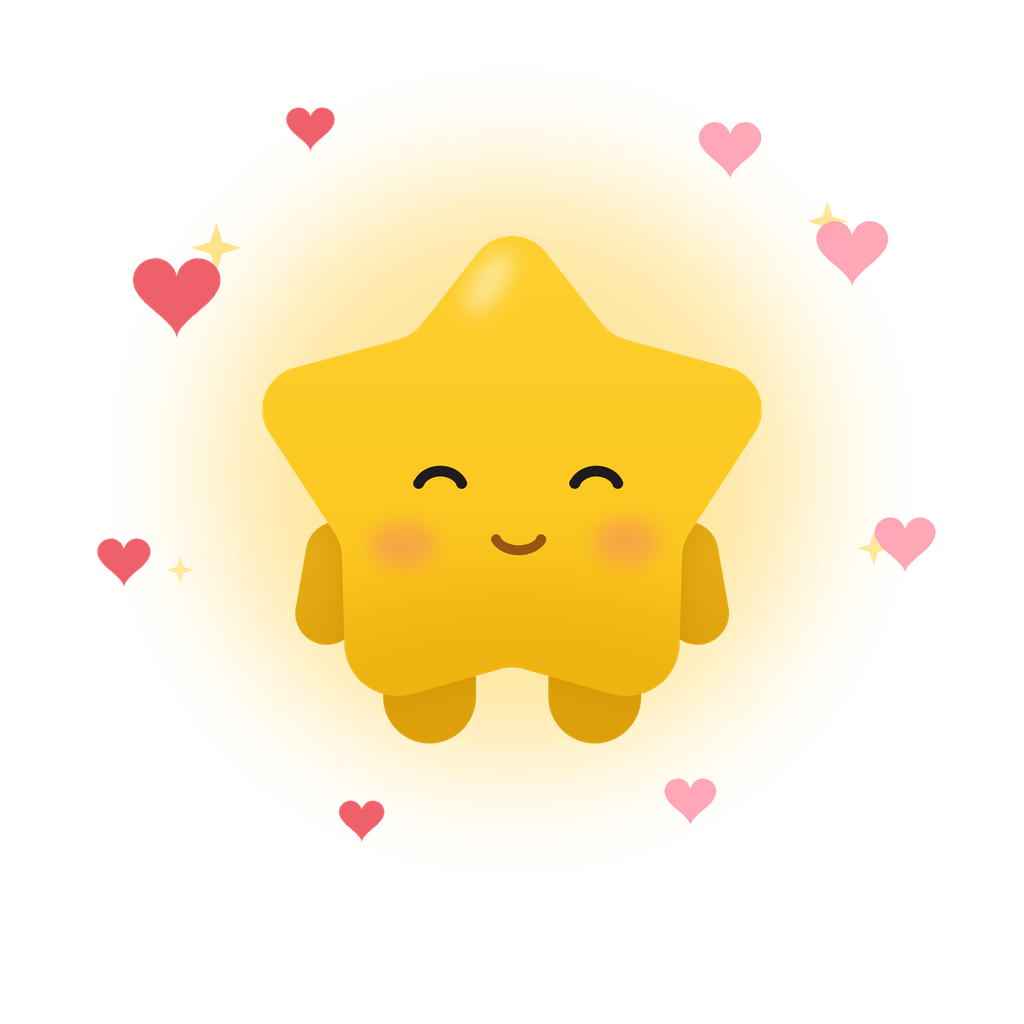
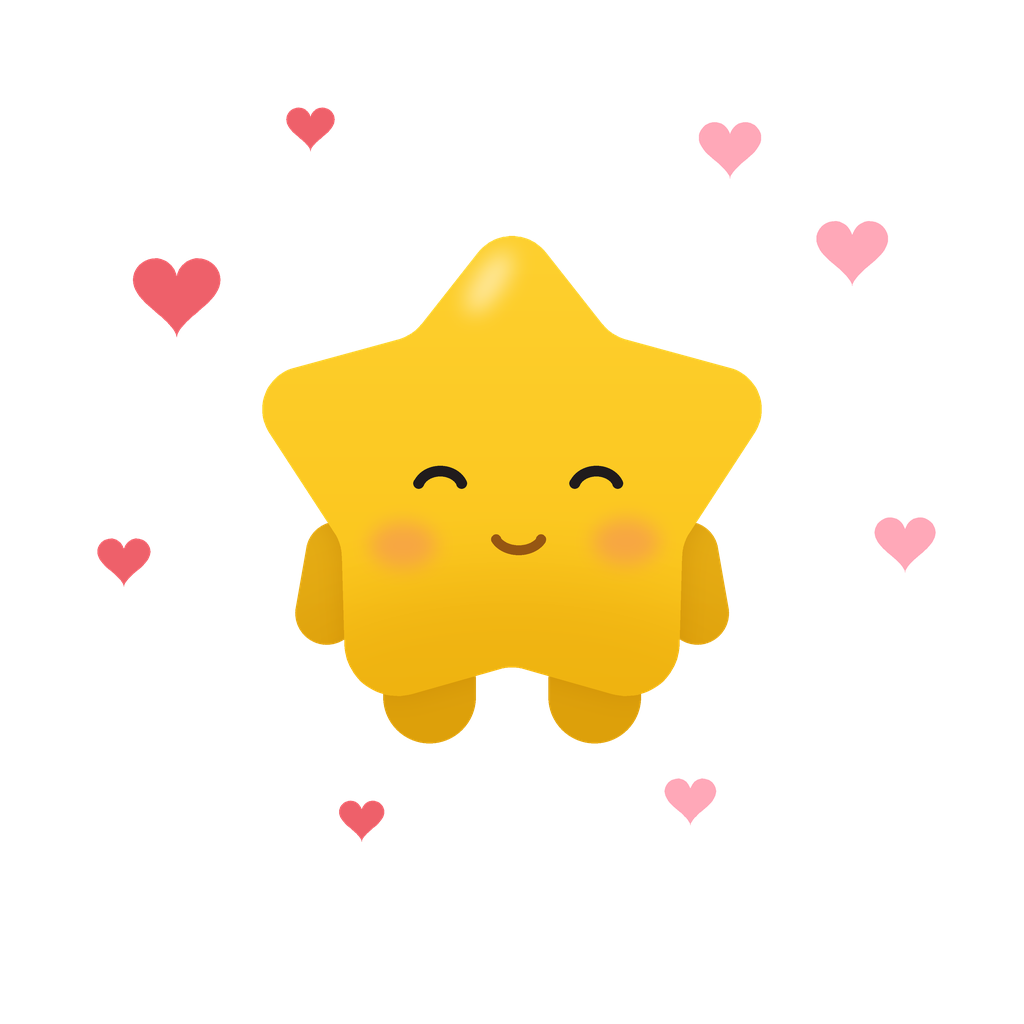
Drop the glow and rebuild the lotus pose
The warm aura around breathing/affirmation/meditation-complete and the
crisis screen is gone — those scenes now carry only stars, hearts or the
mat. The aura and calm_glow helpers are deleted with it.

Lotus: crossed legs are bigger and drawn in a lighter tone, the arms rest
on them in a darker tone, and each casts a soft shadow on what it lies on,
so limbs no longer merge into one yellow mass.

Claude-Session: https://claude.ai/code/session_015M4W5mwAC7ThVprora4HqH

Changed region(s): [[0.1562, 0.125, 0.8438, 0.7812], [0.8438, 0.5312, 0.875, 0.5625], [0.7812, 0.1875, 0.8125, 0.2188]]

diff --git a/scenes.py b/scenes.py
@@ -13,7 +13,7 @@ import argparse
 import math
 import os
 
-from PIL import Image, ImageDraw, ImageFilter
+from PIL import Image, ImageChops, ImageDraw, ImageFilter
 
 import cute_star as cs
 from cute_star import s, sbox
@@ -113,23 +113,6 @@ def planet(img):
 
 
 
-def calm_glow(img):
-    """Очень мягкий тёплый ореол — поддержка без пафоса."""
-    soft(img, (255, 222, 140), 95,
-         lambda d: d.ellipse(sbox([300, 250, 940, 890]), fill=255), blur=s(80))
-
-
-def aura(img):
-    """Тёплое сияние вокруг фигуры — «умиротворение»."""
-    soft(img, (255, 214, 96), 150,
-         lambda d: d.ellipse(sbox([260, 210, 980, 930]), fill=255), blur=s(70))
-    lay, d = layer(img)
-    for cx, cy, size, alpha in ((262, 300, 30, 235), (1002, 268, 24, 215),
-                                (1058, 664, 20, 200), (218, 690, 16, 190)):
-        star4(d, cx, cy, size, STAR_LIGHT, alpha)
-    img.alpha_composite(lay)
-
-
 def hearts_around(img):
     """Сердечки вокруг персонажа — «любовь к себе»."""
     lay, d = layer(img)
@@ -164,8 +147,8 @@ def planets_small(img):
 def mat(img):
     """Коврик-подушка под медитирующим."""
     lay, d = layer(img)
-    d.ellipse(sbox([392, 806, 848, 950]), fill=ACCENT + (255,))
-    d.ellipse(sbox([430, 826, 810, 920]), fill=RING + (255,))
+    d.ellipse(sbox([352, 828, 888, 968]), fill=ACCENT + (255,))
+    d.ellipse(sbox([394, 848, 846, 940]), fill=RING + (255,))
     img.alpha_composite(lay)
 
 
@@ -228,15 +211,37 @@ def hands_notepad(img):
     hands_over(img)
 
 
-def lotus_legs(img):
-    """Скрещённые ножки поверх корпуса — иначе поза лотоса читается как
-    «стоит за ковриком»."""
-    m = Image.new("L", img.size, 0)
-    cs.rotated_capsule(m, cs.CX - 62, 828, 108, 72, -16)
-    cs.rotated_capsule(m, cs.CX + 62, 838, 108, 72, 16)
-    lay = Image.new("RGBA", img.size, HAND + (0,))
-    lay.putalpha(m)
+LEG = (236, 176, 14)          # ноги светлее
+ARM_TONE = (214, 152, 6)      # руки темнее — конечности не сливаются
+
+
+def lotus_pose(img):
+    """Поза лотоса: скрещённые ноги и руки, лежащие на коленях. Рисуем поверх
+    корпуса, иначе конечности тонут в силуэте."""
+    legs = Image.new("L", img.size, 0)
+    cs.rotated_capsule(legs, cs.CX - 66, 822, 168, 84, -10)
+    cs.rotated_capsule(legs, cs.CX + 66, 834, 168, 84, 10)
+    lay = Image.new("RGBA", img.size, LEG + (0,))
+    lay.putalpha(legs)
     img.alpha_composite(lay)
+
+    # мягкая тень от корпуса на ноги — чтобы они не сливались с телом
+    edge = cs.star_mask(img.size).filter(ImageFilter.GaussianBlur(s(18)))
+    cs.tint(img, cs.LIMB_SHADE, 120, ImageChops.multiply(edge, legs))
+
+    arms = Image.new("L", img.size, 0)
+    cs.rotated_capsule(arms, cs.CX - 182, 754, 76, 126, -64)
+    cs.rotated_capsule(arms, cs.CX + 182, 754, 76, 126, 64)
+    lay = Image.new("RGBA", img.size, ARM_TONE + (0,))
+    lay.putalpha(arms)
+    img.alpha_composite(lay)
+    cs.tint(img, cs.LIMB_SHADE, 110,
+            ImageChops.multiply(edge, ImageChops.subtract(arms, legs)))
+
+    # тень от рук на ноги — руки лежат сверху, а не сливаются с ними
+    arm_edge = arms.filter(ImageFilter.GaussianBlur(s(14)))
+    cs.tint(img, cs.LIMB_SHADE, 120,
+            ImageChops.multiply(arm_edge, ImageChops.subtract(legs, arms)))
 
 
 def hands_clap(img):
@@ -500,26 +505,26 @@ SCENES: dict[str, dict] = {
 
     # практики
     "breathcomplete": dict(pose="idle", face=F(eyes="sleepy", mouth="smile"),
-                           title="Дыхание завершено", back=[aura]),
+                           title="Дыхание завершено", back=[stars_around]),
     "affirmcomplete": dict(pose="idle", face=F(eyes="closed", brows="none",
                                                mouth="smile"), blush=210,
                            title="Аффирмации завершены",
-                           back=[aura, hearts_around]),
+                           back=[hearts_around]),
     "meditation": dict(pose="lotus", face=F(eyes="sleepy", mouth="smile"),
                        title="Медитация: лотос",
                        back=[floating_stars, planets_small, mat],
-                       front=[lotus_legs]),
+                       front=[lotus_pose]),
     "meditationcomplete": dict(pose="lotus", face=F(eyes="closed", brows="none",
                                                     mouth="smile"),
-                               title="Медитация завершена", back=[aura, mat],
-                               front=[lotus_legs]),
+                               title="Медитация завершена",
+                               back=[mat, stars_around],
+                               front=[lotus_pose]),
 
     # вспомогательные
     "home-wardrobe": dict(pose="idle", face=F(eyes="wink", mouth="wide"),
                           title="Гардероб: стиль дня", front=[beanie]),
     "crisis": dict(pose="idle", face=F(eyes="sleepy", mouth="smile"),
-                   title="Кризисный экран: спокойная поддержка",
-                   back=[calm_glow]),
+                   title="Кризисный экран: спокойная поддержка"),
 }
 
 # алиасы: один файл переиспользуется на нескольких экранах
